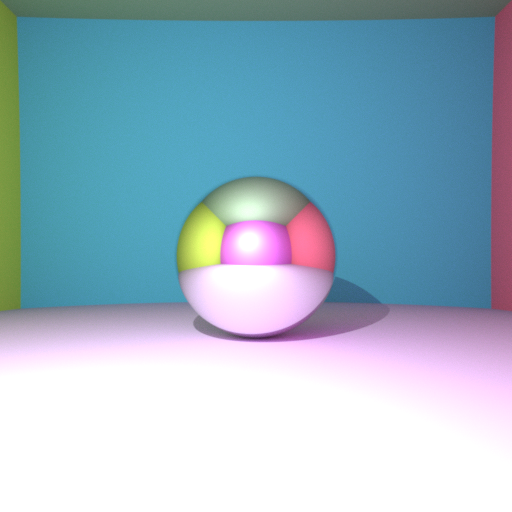
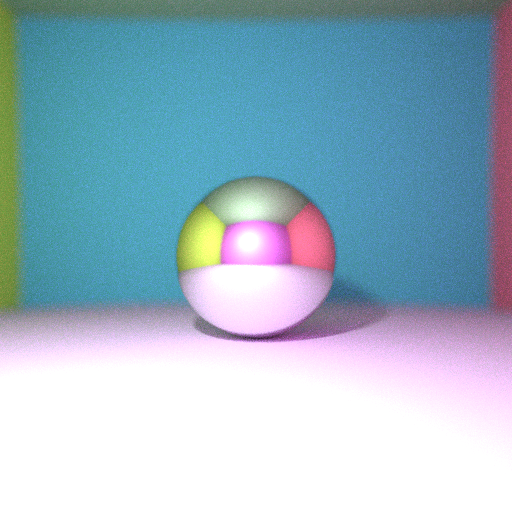
doing the optional field of depth, maintaining versioning, unclean code with a lot of comments and junk code, but I need to push for versioning before trying to recreate the image in lecture notes. Restored the number of paths to 64.

diff --git a/main.cpp b/main.cpp
@@ -377,7 +377,7 @@ int main() {
 		for (int j = 0; j < W; j++) {
 
 			Vector pixelColor(0., 0., 0.);
-			int NB_PATHS = 1000; // Defined as per the slides, effectively the number of rays we are sending per pixel, test more/less as I experimented later with 32, 64 and 1000 - multi-threaded hence it ran in 43 seconds.
+			int NB_PATHS = 64; // Defined as per the slides, effectively the number of rays we are sending per pixel, test more/less as I experimented later with 32, 64 and 1000 - multi-threaded hence it ran in 43 seconds.
 			
 			for (int k = 0; k < NB_PATHS; k++) {
 				// Box-Muller Gaussian jitter per pixel for anti-aliasing
@@ -392,7 +392,26 @@ int main() {
 				Vector ray_direction(x, y, z);
 				ray_direction.normalize();
 
-				Ray ray(scene.camera_center, ray_direction);
+				// Depth of field implementation - It was mentioned optional on the slides but I still wanted to implement it...
+				double aperture_radius = 2.0; // The larger the radius, the stronger the DoF blur I assume...
+				double focus_distance = 55.0; // Distance to the center_sphere (from Z=55 to Z=0....I f I remember correctly...)
+				
+				double t_focus = focus_distance / std::abs(ray_direction[2]);
+				Vector focal_point = scene.camera_center + ray_direction * t_focus;
+				
+				double r1_lens = uniform(engine[thread_id]);
+				double r2_lens = uniform(engine[thread_id]);
+				double dx = aperture_radius * sqrt(r1_lens) * cos(2.0 * M_PI * r2_lens);
+				double dy = aperture_radius * sqrt(r1_lens) * sin(2.0 * M_PI * r2_lens);
+				
+				Vector new_origin = scene.camera_center + Vector(dx, dy, 0);
+				Vector new_direction = focal_point - new_origin;
+				new_direction.normalize();
+
+				Ray ray(new_origin, new_direction);
+
+
+				// Ray ray(scene.camera_center, ray_direction);
 
 				pixelColor = pixelColor + scene.getColor(ray, 0, thread_id);
 			}
